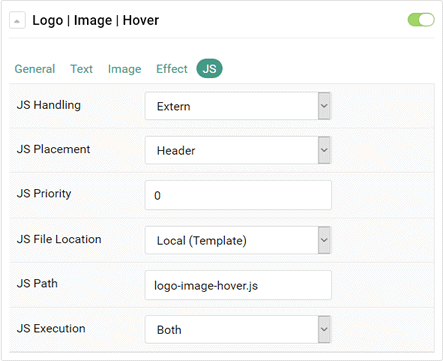
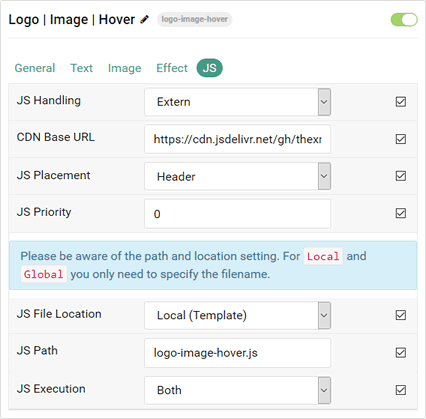
added CDN base URL, switched CDN, prep. for v1.1.6

diff --git a/README.md b/README.md
@@ -9,22 +9,22 @@ This project contains a Gantry Particle and adds a very powerful image render an
 * Gantry Templating Framework and Theme
 
 ## Download
-Choose the correct download for your target platform. The Joomla Plugin System is supported for all Gantry themes globally or locally for the templates Helium and Hydrogen. The latest Particle version is **v1.1.5**.
+Choose the correct download for your target platform. The Joomla Plugin System is supported for all Gantry themes globally or locally for the templates Helium and Hydrogen. The latest Particle version is **v1.1.6**.
 ___
 **Default Particle:**
-[English](https://github.com/thexmanxyz/Logo-Image-Hover-Gantry/releases/download/v1.1.5/lih.particle.only.EN.v1.1.5.zip) / [German](https://github.com/thexmanxyz/Logo-Image-Hover-Gantry/releases/download/v1.1.5/lih.particle.only.DE.v1.1.5.zip)
+[English](https://github.com/thexmanxyz/Logo-Image-Hover-Gantry/releases/download/v1.1.6/lih.particle.only.EN.v1.1.6.zip) / [German](https://github.com/thexmanxyz/Logo-Image-Hover-Gantry/releases/download/v1.1.6/lih.particle.only.DE.v1.1.6.zip)
 
 **Legacy Particle - Gantry <5.3.2:**
-[English](https://github.com/thexmanxyz/Logo-Image-Hover-Gantry/releases/download/v1.1.5/lih.particle.only.legacy.EN.v1.1.5.zip) / [German](https://github.com/thexmanxyz/Logo-Image-Hover-Gantry/releases/download/v1.1.5/lih.particle.only.legacy.DE.v1.1.5.zip)
+[English](https://github.com/thexmanxyz/Logo-Image-Hover-Gantry/releases/download/v1.1.6/lih.particle.only.legacy.EN.v1.1.6.zip) / [German](https://github.com/thexmanxyz/Logo-Image-Hover-Gantry/releases/download/v1.1.6/lih.particle.only.legacy.DE.v1.1.6.zip)
 
 **Joomla Plugin - All Templates (Global):**
-[English](https://github.com/thexmanxyz/Logo-Image-Hover-Gantry/releases/download/v1.1.5/lih.j3.global.EN.v1.1.5.zip) / [German](https://github.com/thexmanxyz/Logo-Image-Hover-Gantry/releases/download/v1.1.5/lih.j3.global.DE.v1.1.5.zip)
+[English](https://github.com/thexmanxyz/Logo-Image-Hover-Gantry/releases/download/v1.1.6/lih.j3.global.EN.v1.1.6.zip) / [German](https://github.com/thexmanxyz/Logo-Image-Hover-Gantry/releases/download/v1.1.6/lih.j3.global.DE.v1.1.6.zip)
 
 **Joomla Plugin - Hydrogen:**
-[English](https://github.com/thexmanxyz/Logo-Image-Hover-Gantry/releases/download/v1.1.5/lih.j3.hydrogen.EN.v1.1.5.zip) / [German](https://github.com/thexmanxyz/Logo-Image-Hover-Gantry/releases/download/v1.1.5/lih.j3.hydrogen.DE.v1.1.5.zip)
+[English](https://github.com/thexmanxyz/Logo-Image-Hover-Gantry/releases/download/v1.1.6/lih.j3.hydrogen.EN.v1.1.6.zip) / [German](https://github.com/thexmanxyz/Logo-Image-Hover-Gantry/releases/download/v1.1.6/lih.j3.hydrogen.DE.v1.1.6.zip)
 
 **Joomla Plugin - Helium:**
-[English](https://github.com/thexmanxyz/Logo-Image-Hover-Gantry/releases/download/v1.1.5/lih.j3.helium.EN.v1.1.5.zip) / [German](https://github.com/thexmanxyz/Logo-Image-Hover-Gantry/releases/download/v1.1.5/lih.j3.helium.DE.v1.1.5.zip)
+[English](https://github.com/thexmanxyz/Logo-Image-Hover-Gantry/releases/download/v1.1.6/lih.j3.helium.EN.v1.1.6.zip) / [German](https://github.com/thexmanxyz/Logo-Image-Hover-Gantry/releases/download/v1.1.6/lih.j3.helium.DE.v1.1.6.zip)
 ___
 
 ## Automatic Installation (Joomla only)
@@ -61,25 +61,25 @@ Please be aware that the template folder path varies in dependence of the used C
 4. [Optional] The download package contains the JS file of the project. You can embed it over the backend configuration if you do not want to use the default CDN. If you chose automatic installation the file is already there.
  
 ## Supported Parameters and Particle Options
-* Container Attributes
-* Custom CSS Classes
-  * for Container and Image Text
-* Output Rendering 
-  * Prioritized, Image only, Text only or Both
-* URL Configuration for the Image and Text
-  * Enable, Target and Title
-* Text Position and Custom Styling
-* Image Configuration
-  * two Images with Overlay supported for Fancy Transition, Timer and Rollover Effects
-  * `alt` and `title` Attribute configurable for both Images
+* Container attributes
+* Custom CSS classes
+  * For container and image text
+* Output rendering 
+  * Prioritized, image only, text only or both
+* URL configuration for the image and text
+  * Enable, target and title
+* Text position and custom styling
+* Image configuration
+  * Two Images with overlay supported for fancy transition, timer and rollover effects
+  * `alt` and `title` attribute configurable for both Images
 * many different CSS3 effects included (**over 150 variations**)
-  * e.g. Zoom-In, Zoom-Out, Slide, Rotate, Blur, Unblur, Sepia, Gray, Pulse, ...
-  * predefined Effect Slots for custom adaptions available 
-* Lazy Load of images supported (requires 3rd party library)
-* JS Priority and Placement (head or footer)
-* JS Loading
+  * E.g. Zoom-In, Zoom-Out, Slide, Rotate, Blur, Unblur, Sepia, Gray, Pulse, ...
+  * Predefined effect slots for custom adaptions available 
+* Lazy load of images supported (requires 3rd party library)
+* JS priority and placement (head or footer)
+* JS loading
   * Remote, Local and Default
-* JS Execution
+* JS execution
   * Asynchronous
   * Deferred
 
